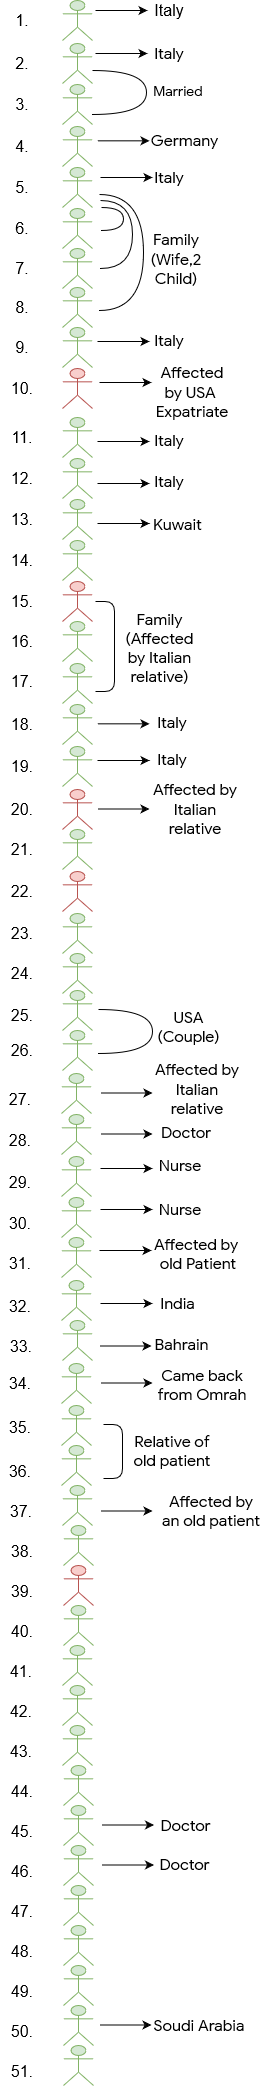
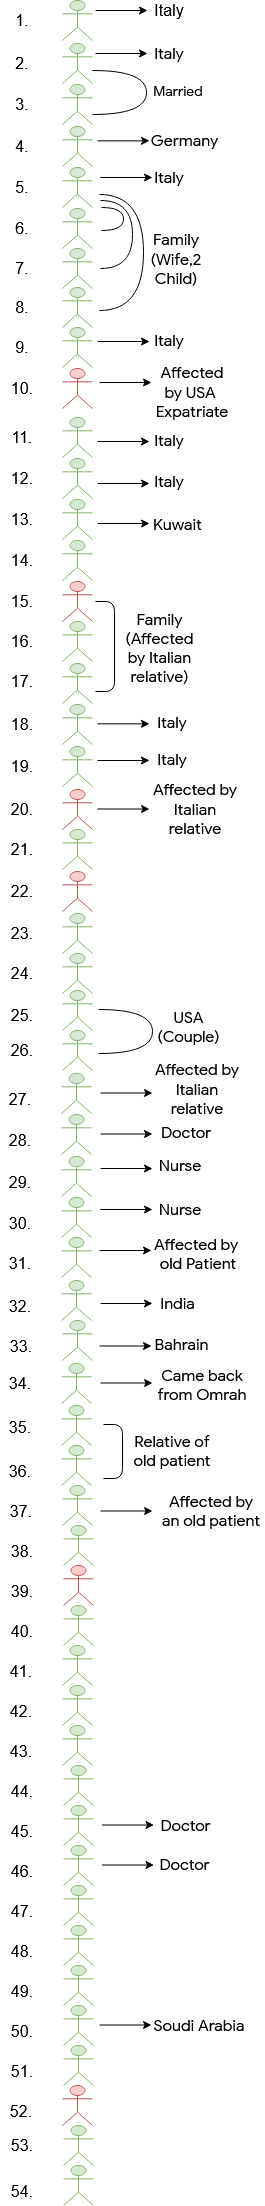
change in 1st april

diff --git a/index.html b/index.html
@@ -375,6 +375,13 @@
                 Total number of corona virus affected people is 51.
               </p>
             </li>
+            <li class="collection-item">
+              <span class="title gsans">1st april, 2020</span>
+              <p class="gsans">
+                3 new person detected corona positive. 1 has died.
+                Total number of corona virus affected people is 54.
+              </p>
+            </li>
           </ul>
         </div>
       </div>

diff --git a/assets/js/infectedpeoplechart.js b/assets/js/infectedpeoplechart.js
@@ -32,7 +32,8 @@ window.onload = function () {
           { x: new Date(2020, 02, 26), y: 5 },
           { x: new Date(2020, 02, 27), y: 4 },
           { x: new Date(2020, 02, 30), y: 1 },
-          { x: new Date(2020, 02, 31), y: 2 }
+          { x: new Date(2020, 02, 31), y: 2 },
+          { x: new Date(2020, 03, 1), y: 3 }
         ]
       }
     ]
